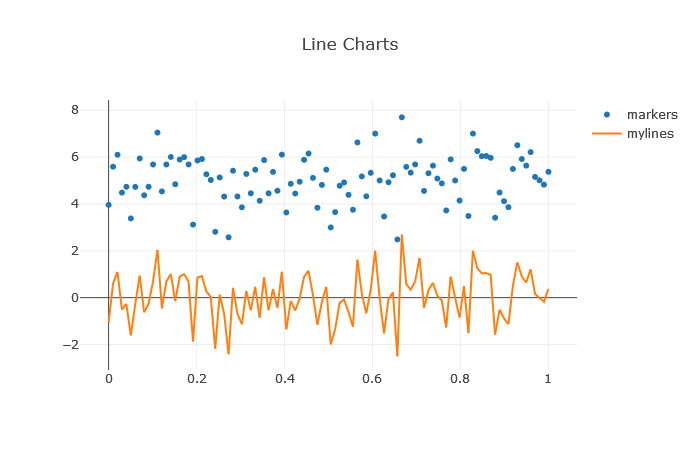
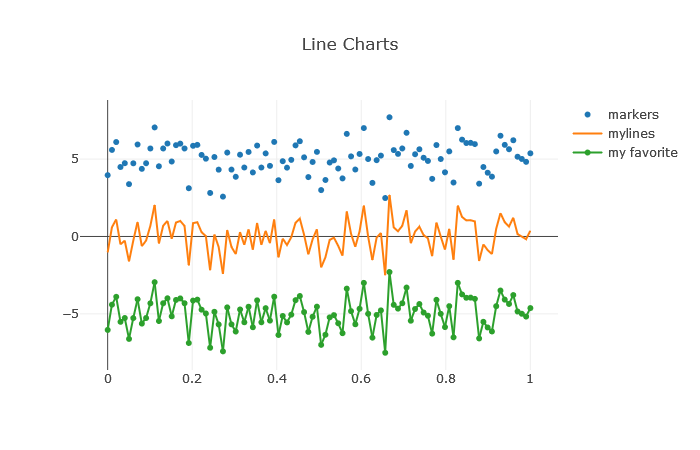
update linechart.py linechart.png

diff --git a/secao1/linechart.py b/secao1/linechart.py
@@ -11,7 +11,9 @@ trace0 = go.Scatter(x=x_values, y=y_values+5,
 
 trace1 = go.Scatter(x=x_values, y=y_values, mode='lines', name='mylines')
 
-data = [trace0, trace1]
+trace2 = go.Scatter(x=x_values, y=y_values-5, mode='lines+markers', name='my favorite')
+
+data = [trace0, trace1, trace2]
 
 layout = go.Layout(title='Line Charts')
 
